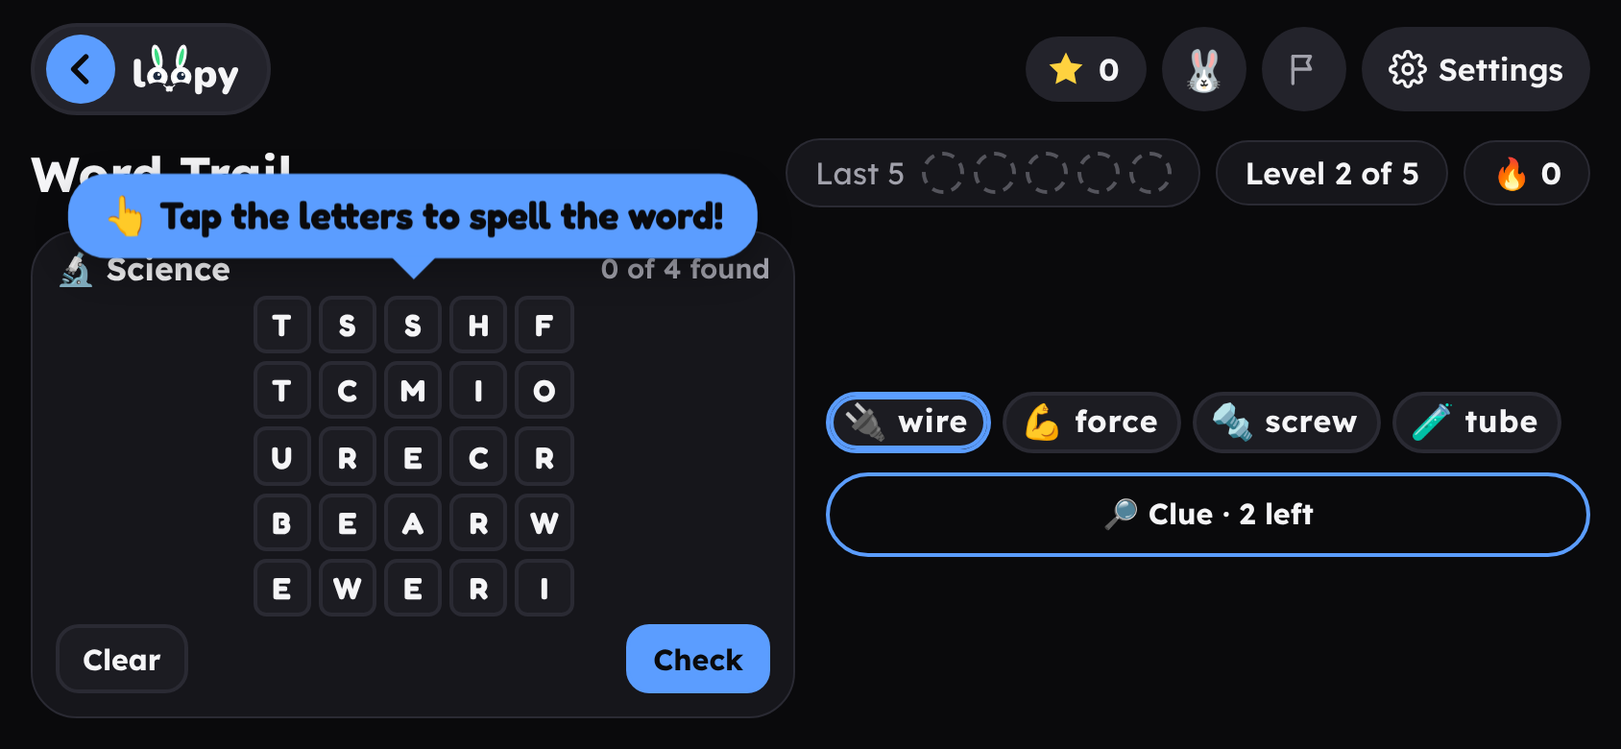
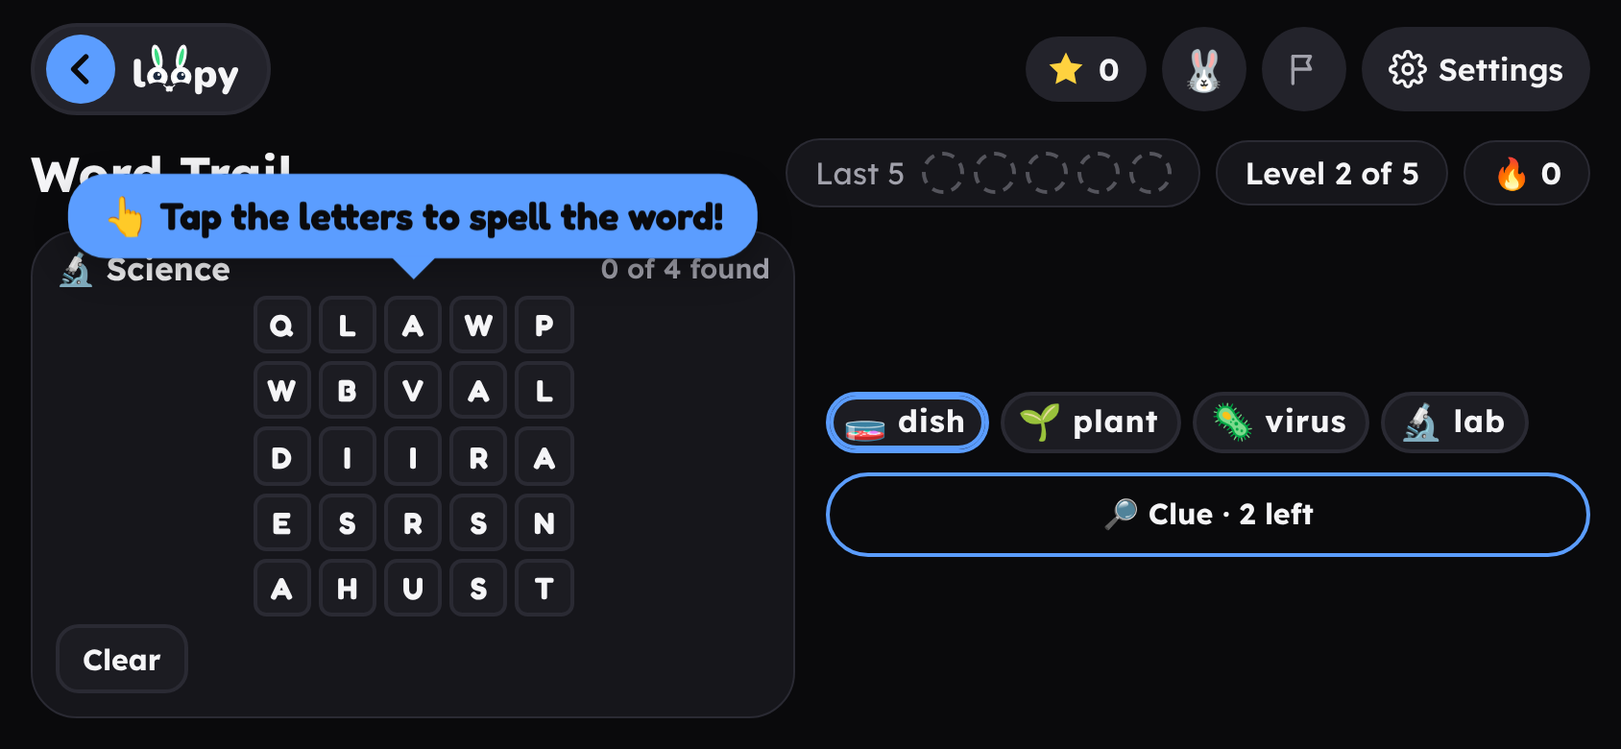
Word Trail: no Check button, the grid takes all the room
The Check button is gone. A right word counts on its last letter, as
before. A wrong trail is a miss by itself as soon as it is as long as
the word being looked for and no word left starts that way. Lifting a
drag, tapping the last box again or Enter still check early.

The grid has no size cap any more. In portrait the card hugs the grid,
the word list sits right under it and Clue stays at the bottom of the
screen (under the list on a tablet). Bigger letters on big grids.

Tests, README, guide (EN + DE), What's new and RELEASES updated.

diff --git a/languages/word-trail/index.html b/languages/word-trail/index.html
@@ -2,7 +2,7 @@
 <html lang="en">
 <head>
 <meta charset="utf-8">
-<meta http-equiv="Content-Security-Policy" content="default-src 'self'; script-src 'self' 'sha256-3/vfuPTWYdPm5rPnxfEDNLvVnI9CecmEN6ldwK3s6Lg='; style-src 'self' 'sha256-z2P7kGW5Z05eCTjTZdYpc0vThTlOE9vmt97pVSvi2I4=' 'sha256-qxqld09sBl9KP7HcyMVqISsx5anYdMyEAaUoAncFj3Q=' 'sha256-RT1053JU5UiKvjrCUFx1rlhdFLMmgtuFJ9T8jnMeawQ=' 'sha256-ninqaUTak7bWrbAUNWFtXnGw8vMhszkAjNZHG+aJ8Ac='; img-src 'self' data:; font-src 'self'; connect-src 'self' https://loopy-sync.loopy-1e2.workers.dev; worker-src 'self'; object-src 'none'; base-uri 'none'; form-action 'none'; manifest-src 'self'; upgrade-insecure-requests">
+<meta http-equiv="Content-Security-Policy" content="default-src 'self'; script-src 'self' 'sha256-lAx0mTM6xN1UceBe24lCt9oUzZXwg/Sj3TcZuJAvhcE='; style-src 'self' 'sha256-z2P7kGW5Z05eCTjTZdYpc0vThTlOE9vmt97pVSvi2I4=' 'sha256-qxqld09sBl9KP7HcyMVqISsx5anYdMyEAaUoAncFj3Q=' 'sha256-RT1053JU5UiKvjrCUFx1rlhdFLMmgtuFJ9T8jnMeawQ=' 'sha256-ObADxb1T3nqBmc1SpGc+Tt0YGZLFv+0JaOUhIwKFlNk='; img-src 'self' data:; font-src 'self'; connect-src 'self' https://loopy-sync.loopy-1e2.workers.dev; worker-src 'self'; object-src 'none'; base-uri 'none'; form-action 'none'; manifest-src 'self'; upgrade-insecure-requests">
 <meta name="referrer" content="strict-origin-when-cross-origin">
 <meta name="viewport" content="width=device-width, initial-scale=1, viewport-fit=cover">
 <style>:root{color-scheme:light;padding-top:env(safe-area-inset-top,0px);padding-bottom:env(safe-area-inset-bottom,0px)}body{margin:0}[hidden]{display:none!important}</style>
@@ -105,7 +105,7 @@ body { min-height: 100vh; min-height: 100dvh; padding-block: 12px 16px; }
   .play { display: grid; grid-template-columns: 1fr 1fr; gap: 16px; align-items: center; }
 }
 
-.problem-card { padding: 12px 14px 12px; gap: 8px; }
+.problem-card { padding: 10px 12px; gap: 6px; }
 .feedback { min-height: 0; font-size: 1.05rem; }
 .feedback strong { font-size: 1.3rem; }
 
@@ -119,6 +119,18 @@ body { min-height: 100vh; min-height: 100dvh; padding-block: 12px 16px; }
   .problem-card { flex: 1 1 auto; min-height: 0; justify-content: center; overflow: hidden; }
   .gridbox { flex: 1 1 auto; }
   body:not(:has(#settings-panel:not([hidden]))) .gridbox { container-type: size; }
+  /* The card hugs the grid when the grid is as wide as the card: the word list sits right under it,
+     Clue and Next stay at the bottom, and the spare room is between them, not inside the card. */
+  .play { container-type: inline-size; }
+  .problem-card { flex-grow: 999; max-height: calc(100cqw + 104px); }
+  .problem-card:has(#result:not([hidden])) { max-height: calc(100cqw + 170px); }
+  .feedback { min-height: 1.5em; }
+  .side { flex: 1 1 auto; min-height: 0; display: flex; flex-direction: column; justify-content: space-between; gap: 10px; }
+  .side .words { flex: 0 0 auto; }
+}
+/* Tablets upright: Clue sits under the word list instead of far down the page. */
+@media (orientation: portrait) and (min-width: 600px) {
+  .side { justify-content: flex-start; gap: 14px; }
 }
 @media (orientation: landscape) and (min-width: 640px) {
   body { height: calc(100dvh - env(safe-area-inset-top, 0px) - env(safe-area-inset-bottom, 0px)); min-height: 0; display: flex; flex-direction: column; overflow: hidden; }
@@ -136,16 +148,16 @@ body { min-height: 100vh; min-height: 100dvh; padding-block: 12px 16px; }
 .topic { font-weight: 700; font-size: 1.05rem; min-width: 0; overflow: hidden; text-overflow: ellipsis; white-space: nowrap; }
 .found { color: var(--muted); font-weight: 600; font-size: 0.9rem; white-space: nowrap; }
 .gridbox { width: 100%; display: flex; justify-content: center; align-items: center; min-height: 0; }
-.gridwrap { position: relative; width: min(100%, 400px, 38dvh); width: min(100%, 520px, 100cqh); container-type: inline-size; }
+.gridwrap { position: relative; width: min(100%, 400px, 38dvh); width: min(100%, 100cqh); container-type: inline-size; }
 .grid { display: grid; grid-template-columns: repeat(var(--n, 5), 1fr); gap: 5px; touch-action: none; }
 .cell {
   aspect-ratio: 1; min-width: 0; padding: 0; display: grid; place-items: center; cursor: pointer;
   border: 2px solid var(--line); border-radius: 22%; background: var(--key); color: var(--ink);
-  font-family: "Fredoka", var(--font); font-weight: 700; font-size: clamp(1rem, 4.6dvh, 1.7rem); font-size: clamp(1rem, 9cqw, 1.9rem); text-transform: uppercase; line-height: 1;
+  font-family: "Fredoka", var(--font); font-weight: 700; font-size: clamp(1rem, 4.6dvh, 1.7rem); font-size: clamp(1rem, 9cqw, 2.4rem); text-transform: uppercase; line-height: 1;
   -webkit-tap-highlight-color: transparent; -webkit-user-select: none; user-select: none;
 }
-.grid.n4 .cell { font-size: clamp(1rem, 11cqw, 2.2rem); }
-.grid.n6 .cell { font-size: clamp(0.95rem, 4dvh, 1.45rem); font-size: clamp(0.95rem, 7.5cqw, 1.7rem); }
+.grid.n4 .cell { font-size: clamp(1rem, 11cqw, 2.8rem); }
+.grid.n6 .cell { font-size: clamp(0.95rem, 4dvh, 1.45rem); font-size: clamp(0.95rem, 7.5cqw, 2rem); }
 .cell.on { background: var(--accent); border-color: var(--accent); color: var(--on-accent, #fff); transform: scale(1.06); z-index: 1; }
 .cell.w { background: var(--chip); border-width: 3px; }
 .cell.w1 { border-color: var(--c3); } .cell.w2 { border-color: var(--c4); } .cell.w3 { border-color: var(--c2); } .cell.w4 { border-color: var(--c1); } .cell.w5 { border-color: var(--c5); }
@@ -164,7 +176,6 @@ body { min-height: 100vh; min-height: 100dvh; padding-block: 12px 16px; }
   font: inherit; font-weight: 700; font-size: 0.95rem; min-height: 40px; min-width: 44px; padding: 0 12px; border-radius: 12px; cursor: pointer;
   border: 2px solid var(--line); background: var(--key); color: var(--ink); touch-action: manipulation;
 }
-.spell-row .go { background: var(--accent); border-color: var(--accent); color: var(--on-accent, #fff); }
 .result { display: flex; flex-direction: column; align-items: center; gap: 6px; width: 100%; text-align: center; }
 .big { font-family: "Fredoka", var(--font); font-size: 1.6rem; margin: 0; line-height: 1.1; text-align: center; }
 .stars { display: flex; align-items: center; justify-content: center; gap: 6px; font-weight: 700; font-size: 1.1rem; }
@@ -284,7 +295,6 @@ body { min-height: 100vh; min-height: 100dvh; padding-block: 12px 16px; }
       <div class="spell-row" id="spell-row">
         <button type="button" id="k-erase" data-t="wtClear" data-t-aria="wtClearAria">Clear</button>
         <p class="spell" id="spell"></p>
-        <button type="button" class="go" id="k-go" data-t="wtCheck" data-t-aria="wtCheckAria">Check</button>
       </div>
       <div class="result" id="result" hidden></div>
       <p class="feedback" id="feedback" aria-live="polite"></p>
@@ -306,7 +316,7 @@ Loopy.addStrings({
     wtFound: "{n} of {m} found", wtClue: "🔎 Clue", wtLeft: "{n} left", wtNoClues: "No clues left",
     wtShort: "A word needs 3 letters or more.", wtAlready: "You found “{w}” already.", wtNotList: "Not on the list. “{w}” was here.",
     wtGot: "“{w}”! ⭐", wtAllDone: "All {n} words found!", wtSomeDone: "{r} of {n} words found.", wtStars: "+{n} stars",
-    wtNext: "Next grid →", wtGo: "Next word →", wtCheck: "Check", wtCheckAria: "Check the word", wtClear: "Clear", wtClearAria: "Clear the trail",
+    wtNext: "Next grid →", wtGo: "Next word →", wtClear: "Clear", wtClearAria: "Clear the trail",
     wtCell: "{l}, row {r}, box {c}", wtFind: "Find this one", wtLetters: "{n} letters",
     wtRead: "Find these words: {w}.", wtReadHidden: "Topic: {t}. {n} words to find. The next one has {l} letters.",
     wtHow: "Find the words hidden in the grid. Letters that touch make a word. Draw a line through each one.", wtAnsAt: "row {r}, box {c}",
@@ -321,7 +331,7 @@ Loopy.addStrings({
     wtFound: "{n} von {m} gefunden", wtClue: "🔎 Hinweis", wtLeft: "{n} übrig", wtNoClues: "Keine Hinweise mehr",
     wtShort: "Ein Wort braucht mindestens 3 Buchstaben.", wtAlready: "„{w}“ hast du schon gefunden.", wtNotList: "Steht nicht auf der Liste. „{w}“ war hier.",
     wtGot: "„{w}“! ⭐", wtAllDone: "Alle {n} Wörter gefunden!", wtSomeDone: "{r} von {n} Wörtern gefunden.", wtStars: "+{n} Sterne",
-    wtNext: "Nächstes Gitter →", wtGo: "Nächstes Wort →", wtCheck: "Prüfen", wtCheckAria: "Wort prüfen", wtClear: "Löschen", wtClearAria: "Pfad löschen",
+    wtNext: "Nächstes Gitter →", wtGo: "Nächstes Wort →", wtClear: "Löschen", wtClearAria: "Pfad löschen",
     wtCell: "{l}, Zeile {r}, Feld {c}", wtFind: "Dieses Wort suchen", wtLetters: "{n} Buchstaben",
     wtRead: "Finde diese Wörter: {w}.", wtReadHidden: "Thema: {t}. {n} Wörter zu finden. Das nächste hat {l} Buchstaben.",
     wtHow: "Finde die versteckten Wörter im Gitter. Buchstaben, die sich berühren, bilden ein Wort. Zieh eine Linie durch jedes Wort.", wtAnsAt: "Zeile {r}, Feld {c}",
@@ -452,7 +462,7 @@ function makeGrid(lang, lv, topic, avoid, must) {
   const $ = (id) => document.getElementById(id);
   const card = $("card"), topicEl = $("topic"), foundEl = $("found"), gridEl = $("grid"), wrapEl = $("letters"), trailEl = $("trail"),
     spellEl = $("spell"), resultEl = $("result"), feedbackEl = $("feedback"), wordsEl = $("wordlist"),
-    moreBtn = $("more"), nextBtn = $("next"), goBtn = $("k-go"), eraseBtn = $("k-erase"), topicSeg = $("topic-seg");
+    moreBtn = $("more"), nextBtn = $("next"), eraseBtn = $("k-erase"), topicSeg = $("topic-seg");
   const wordsBtns = [...document.querySelectorAll("#words-seg button")];
   const levelBtns = [...document.querySelectorAll("#level-seg button")];
   const t = Loopy.t;
@@ -624,12 +634,15 @@ function makeGrid(lang, lv, topic, avoid, must) {
     const b = el && el.closest ? el.closest("#grid .cell") : null;
     return b ? +b.dataset.i : -1;
   }
-  // Add a box to the trail. When the letters now spell a word on the list, it is found straight away.
+  // Add a box to the trail. When the letters now spell a word on the list, it is found straight away. When the
+  // trail is as long as the word being looked for and no word left starts this way, it is a miss straight away.
+  // Returns true when the trail is over, found or missed.
   function add(i) {
     trail.push(i);
     const s = trail.map(k => grid.cells[k]).join("");
     const hit = grid.words.find(w => !w.done && lower(w.e.word) === s);
     if (hit) { success(hit, trail.slice()); return true; }
+    if (trail.length >= target.e.letters.length && !remaining().some(w => lower(w.e.word).startsWith(s))) { miss(s); return true; }
     render();
     return false;
   }
@@ -687,10 +700,10 @@ function makeGrid(lang, lv, topic, avoid, must) {
   function clear() { trail = []; render(); }
   // A note on the feedback line. Cleared first, so a screen reader also reads it when it is the same note again.
   function say(text) { feedbackEl.textContent = ""; requestAnimationFrame(() => { feedbackEl.textContent = text; }); }
-  // Check or Erase came from the keyboard: focus goes back to the letters, so the child can carry on.
+  // Clear came from the keyboard: focus goes back to the letters, so the child can carry on.
   function backToLetters() {
     const a = document.activeElement;
-    if (!a || !/^k-(go|erase)$/.test(a.id)) return;
+    if (!a || a.id !== "k-erase") return;
     const c = gridEl.querySelector('.cell[tabindex="0"]') || gridEl.firstElementChild;
     if (c) c.focus({ preventScroll: true });
   }
@@ -766,7 +779,6 @@ function makeGrid(lang, lv, topic, avoid, must) {
 
   nextBtn.addEventListener("click", next);
   moreBtn.addEventListener("click", clue);
-  goBtn.addEventListener("click", check);
   eraseBtn.addEventListener("click", () => { if (trail.length) { trail.pop(); render(); } });
   wordsBtns.forEach(b => b.addEventListener("click", () => { wordsLang = b.dataset.words; store.set("wt.words", wordsLang); recent = []; grid = null; newQuestion(); }));
   levelBtns.forEach(b => b.addEventListener("click", () => { level = +b.dataset.level; store.set("wt.level.a" + age, level); recent = []; grid = null; newQuestion(); }));
@@ -785,7 +797,7 @@ function makeGrid(lang, lv, topic, avoid, must) {
       return;
     }
     if (e.key === "Enter") {
-      // Buttons act on their own (Check, Next, Clue, Settings, a box); Enter elsewhere checks the trail or goes on.
+      // Buttons act on their own (Next, Clue, Clear, Settings, a box); Enter elsewhere checks the trail or goes on.
       if (b || e.target.closest("#settings-panel")) return;
       answered ? next() : check();
       e.preventDefault();

diff --git a/sw.js b/sw.js
@@ -1,5 +1,5 @@
 /* loopy: built from src/sw.js by tools/build.py. Do not edit this file, edit the source. */
-var VERSION="7247666fbd2a63a2",FILES={"apple-touch-icon.png":"826eeeca90","fonts/atkinson-latin.woff2":"71c3e56f88","fonts/fredoka-latin-ext.woff2":"18a1723c87","fonts/fredoka-latin.woff2":"3facd28352","fonts/lexend-latin-ext.woff2":"b5d815d420","fonts/lexend-latin.woff2":"35a62e43ae","geography/flags-capitals/data.js":"b641089a33","geography/flags-capitals/":"64315fdff4","geography/where-is-it/data.js":"c8e0bf4f86","geography/where-is-it/":"b552768a16","help/":"822b6f2a39","icon-192.png":"571274d70c","icon-512.png":"dfd4ed3adf","icon-maskable-512.png":"981dcb84db","icon.svg":"3d1a9ed7fd","./":"57e5a7592d","languages/sentence-builder/":"a2606c7ae1","languages/sentence-builder/words.js":"15d02d630a","languages/sound-spell/":"0c2fde4438","languages/sound-spell/words.js":"100ac92ec5","languages/spell-it/":"001e0c3374","languages/spell-it/words.js":"72e87eaa4f","languages/spelling-quiz/":"b497a43315","languages/spelling-quiz/words.js":"9c90832137","languages/word-detective/":"a369dd7558","languages/word-detective/words.js":"62c5968b01","languages/word-match/":"ad5e3099c4","languages/word-trail/":"d5d018e3df","languages/words.js":"ad5f903a46","logo-white.svg":"f6a28d2294","logo.svg":"33f3453587","loopy-backup.js":"f92623ab2d","loopy-install.js":"3c3d79f3e7","loopy-levels.js":"814852b75c","loopy-report.js":"c374c981fa","loopy-sheet.js":"8866d2feb4","loopy-sync.js":"0866d61ab8","loopy.css":"de8276730d","loopy.js":"62f6b0d7c0","manifest.webmanifest":"32d1e2daa8","math/bigger-or-smaller/":"4e67dce547","math/box-multiply/":"cc580bc685","math/coins-change/":"535f5fc48f","math/equation-balance/":"c3315b3c55","math/graphs-data/":"ed5f74ef5d","math/make-10/":"e59ed6180e","math/percent-ratio/":"028a94dda4","math/pizza-fractions/":"1d479f211d","math/plus-minus/":"3cb953f5b6","math/plus-minus-100/":"b149fbb898","math/shapes-angles/":"67dbb0a627","math/step-by-step/":"ee65b66a50","math/times-share/":"c27b0e114f","math/times-sprint/":"ed564f3796","math/what-time-is-it/":"c6b02b8edd","mix/daily-mix/":"f9b732ca31","print.css":"619925ee48","privacy/":"a461f641db","progress/":"f1c7bea29f","science/quick-facts/data.js":"8196c98b79","science/quick-facts/":"753f191d5e","science/sort-it/data.js":"9abc4f3e8a","science/sort-it/":"d7f77a0a37"};
+var VERSION="8db463a32160b3ad",FILES={"apple-touch-icon.png":"826eeeca90","fonts/atkinson-latin.woff2":"71c3e56f88","fonts/fredoka-latin-ext.woff2":"18a1723c87","fonts/fredoka-latin.woff2":"3facd28352","fonts/lexend-latin-ext.woff2":"b5d815d420","fonts/lexend-latin.woff2":"35a62e43ae","geography/flags-capitals/data.js":"b641089a33","geography/flags-capitals/":"64315fdff4","geography/where-is-it/data.js":"c8e0bf4f86","geography/where-is-it/":"b552768a16","help/":"822b6f2a39","icon-192.png":"571274d70c","icon-512.png":"dfd4ed3adf","icon-maskable-512.png":"981dcb84db","icon.svg":"3d1a9ed7fd","./":"57e5a7592d","languages/sentence-builder/":"a2606c7ae1","languages/sentence-builder/words.js":"15d02d630a","languages/sound-spell/":"0c2fde4438","languages/sound-spell/words.js":"100ac92ec5","languages/spell-it/":"001e0c3374","languages/spell-it/words.js":"72e87eaa4f","languages/spelling-quiz/":"b497a43315","languages/spelling-quiz/words.js":"9c90832137","languages/word-detective/":"a369dd7558","languages/word-detective/words.js":"62c5968b01","languages/word-match/":"ad5e3099c4","languages/word-trail/":"6421d50bd5","languages/words.js":"ad5f903a46","logo-white.svg":"f6a28d2294","logo.svg":"33f3453587","loopy-backup.js":"f92623ab2d","loopy-install.js":"3c3d79f3e7","loopy-levels.js":"814852b75c","loopy-report.js":"c374c981fa","loopy-sheet.js":"8866d2feb4","loopy-sync.js":"0866d61ab8","loopy.css":"de8276730d","loopy.js":"62f6b0d7c0","manifest.webmanifest":"32d1e2daa8","math/bigger-or-smaller/":"4e67dce547","math/box-multiply/":"cc580bc685","math/coins-change/":"535f5fc48f","math/equation-balance/":"c3315b3c55","math/graphs-data/":"ed5f74ef5d","math/make-10/":"e59ed6180e","math/percent-ratio/":"028a94dda4","math/pizza-fractions/":"1d479f211d","math/plus-minus/":"3cb953f5b6","math/plus-minus-100/":"b149fbb898","math/shapes-angles/":"67dbb0a627","math/step-by-step/":"ee65b66a50","math/times-share/":"c27b0e114f","math/times-sprint/":"ed564f3796","math/what-time-is-it/":"c6b02b8edd","mix/daily-mix/":"f9b732ca31","print.css":"619925ee48","privacy/":"a461f641db","progress/":"f1c7bea29f","science/quick-facts/data.js":"8196c98b79","science/quick-facts/":"753f191d5e","science/sort-it/data.js":"9abc4f3e8a","science/sort-it/":"d7f77a0a37"};
 var CACHE="loopy-"+VERSION;var LIST=new URL("loopy-files",self.location).href;var SAVED={};Object.keys(FILES).forEach(function(f){SAVED[new URL(f,self.location).href]=FILES[f];});function key(url){var u=new URL(url);u.search="";u.hash="";u.pathname=u.pathname.replace(/\/index\.html$/,"/").replace(/\/([^\/.]+)$/,"/$1/");return u.href;}
 function oldCopy(){return caches.keys().then(function(names){return Promise.all(names.filter(function(n){return n.indexOf("loopy-")===0&&n!==CACHE;}).map(function(n){return caches.open(n).then(function(cache){return cache.match(LIST).then(function(r){return r?r.json():null;}).then(function(list){if(!list||typeof list!=="object")return null;var same=Object.keys(SAVED).filter(function(url){return list[url]===SAVED[url];}).length;return{cache:cache,list:list,same:same};});}).catch(function(){return null;});}));}).then(function(copies){return copies.reduce(function(best,c){return c&&(!best||c.same>best.same)?c:best;},null);}).catch(function(){return null;});}
 function matches(res,want){if(!res||!self.crypto||!crypto.subtle)return Promise.resolve(!!res);return res.clone().arrayBuffer().then(function(buf){return crypto.subtle.digest("SHA-256",buf);}).then(function(d){return Array.prototype.map.call(new Uint8Array(d),function(b){return(b<16?"0":"")+b.toString(16);}).join("").slice(0,10)===want;},function(){return true;});}

diff --git a/RELEASES.md b/RELEASES.md
@@ -4,7 +4,7 @@ The big changes, newest first. Small fixes are not listed.
 
 | Date | What's new | Where | PR |
 | --- | --- | --- | --- |
-| 2026-11-01 | Fix: Word Trail fills its card on a phone. The topic line sits at the top, the letter grid takes the room in between and Clear and Check sit under it, so there are no big empty gaps. The grid grows to the room it has, so the letters are bigger on a phone and a tablet. On a phone held sideways the grid got a little more room too. | Word Trail | #181 |
+| 2026-11-01 | Word Trail: a bigger grid and no Check button. The letter grid now takes all the room its card has. The letters are bigger on a phone and a tablet, and the card has no empty gaps. The word list sits right under the card and Clue stays at the bottom. The Check button is gone. A right word counts on its last letter, as before. A wrong trail shows the word in red by itself, as soon as it is as long as the word you are looking for. Clear and the spelled letters stay under the grid. | Word Trail | #181 |
 | 2026-11-01 | Twice as many words. Every word game now has at least double the words to practise. Word Match has about 270 words instead of 100. Word Trail has about 1,000 instead of 480. Word Detective has 240 per language instead of 120. Spell It has 356 English and 238 German words, Sound Spell 142 and 136. Sentence Builder has 240 sentences per language instead of 120. Spelling Quiz has at least twice as many words in each grade. The games look and play the same, there is just less repeating. | Word Match, Word Trail, Word Detective, Spell It, Sound Spell, Sentence Builder, Spelling Quiz | #176 |
 | 2026-11-01 | Lighter game pages. The words, sentences, facts, flags and map of each game now sit in their own small file next to the game. Word Match and Word Trail share one word bank. Nothing looks or plays differently. The pages themselves are smaller, and when a word list changes, phones download only that small file instead of the whole page. Grown-ups who want to add a word find each file named in the game's README. | All word, fact and map games | #174 |
 | 2026-11-01 | Stay in touch, and a privacy note. Grown-ups who want to hear about new games can leave their email in ⚙ Settings on the home page, above Family sync. Nothing is sent until you tap Save. loopy keeps the email, your language and the time on its own server in the EU. Nothing about the child. Remove deletes it, and after 2 years it is deleted by itself. A new privacy note at the bottom of the home page, in English and German, says what loopy keeps, where and for how long, and how to delete it. The sync server now also counts, once a night, how many families have Family sync on: counts only, no names. | Home page Settings, privacy note, Help | #167 #168 |

diff --git a/languages/word-trail/README.md b/languages/word-trail/README.md
@@ -7,7 +7,7 @@ A word search for kids. The child finds the words hidden in a grid of letters by
 1. Look at the word list under the grid. The word with the blue ring is the one to find now. Any word on the list counts, though.
 2. Tap the letters one after the other, or drag a finger over them. The letters so far show under the grid. Letters that touch make a word, sideways, up and down or diagonally. From level 2 the trail can bend.
 3. The word counts as soon as its last letter is tapped. The trail keeps its colour and the word in the list is crossed out. You earn a star.
-4. Not a word on the list? Tap **Check** (or lift your finger) and the word you were looking for shows in red where it was hidden. No star, and the word comes back later in Try again. Tap **Next word** to go on.
+4. Not a word on the list? The word you were looking for shows in red where it was hidden. That happens as soon as the trail is as long as that word, or when you lift your finger. No star, and the word comes back later in Try again. Tap **Next word** to go on.
 5. Stuck? Tap **🔎 Clue**. The first clue opens the picture and first letter in the list, at the levels that hide them. The next clue makes the word's first box pulse. The last clue shows the whole trail. The word then counts as a miss.
 6. When every word in the grid is found, the card says **All 4 words found!** and shows the stars. Tap **Next grid**.
 
@@ -50,7 +50,7 @@ Open them with the gear button.
 - **Read aloud.** A speaker button on the card reads the words to find. At levels 4 and 5, where the list hides the words, it reads the topic and how many letters the next word has. It is on by itself for ages 7 and under.
 - Age, colors, sound effects and the display language (EN/DE) are shared with the other games.
 - **Print worksheet.** See below.
-- The keyboard works too. Arrows move between the boxes. Space or Enter picks a letter. Enter checks. Backspace takes the last letter off. Escape clears the trail.
+- The keyboard works too. Arrows move between the boxes. Space or Enter picks a letter. Enter checks a trail early. Backspace takes the last letter off. Escape clears the trail.
 
 ## Print a worksheet
 

diff --git a/guide-src/src/content/docs/de/help/whats-new.md b/guide-src/src/content/docs/de/help/whats-new.md
@@ -10,6 +10,7 @@ Die großen Änderungen, die neuesten zuerst. Kleine Korrekturen stehen nicht da
 
 ## 1. November 2026
 
+- **Wortpfad: ein größeres Gitter, kein Prüfen-Knopf.** Das Buchstabengitter nimmt jetzt den ganzen Platz seiner Karte ein. Die Buchstaben sind auf dem Handy und dem Tablet größer. Der Prüfen-Knopf ist weg. Ein richtiges Wort zählt beim letzten Buchstaben, wie bisher. Ein falscher Pfad zeigt das Wort von selbst in Rot, sobald er so lang ist wie das gesuchte Wort. Siehe [Wortpfad](/loopy/guide/de/games/languages/word-trail/).
 - **Doppelt so viele Wörter.** Jedes Wortspiel hat jetzt mindestens doppelt so viele Wörter zum Üben. Bild und Wort hat etwa 270 Wörter und Wortpfad etwa 1.000. Wortdetektiv hat 240 pro Sprache. Wörter schreiben hat 356 englische und 238 deutsche Wörter. Satzbau hat 240 Sätze pro Sprache. Anlaut und Endlaut und das Rechtschreib-Quiz haben auch doppelt so viele. Die Spiele sehen gleich aus und spielen sich gleich, es wiederholt sich nur weniger.
 - **Leichtere Spielseiten.** Die Wörter, Fakten, Flaggen und die Karte jedes Spiels liegen jetzt in einer eigenen kleinen Datei neben dem Spiel. Nichts sieht anders aus oder spielt sich anders, aber eine geänderte Wortliste wird allein geladen, nicht mit der ganzen Seite. Wie man ein Wort ergänzt, steht unter [Fragen und Antworten](/loopy/guide/de/help/faq/).
 - **In Kontakt bleiben, und ein Datenschutzhinweis.** Erwachsene, die von neuen Spielen hören möchten, können in ⚙ Einstellungen auf der Startseite ihre E-Mail hinterlassen. Nichts wird gesendet, bis du auf **Speichern** tippst, und **Löschen** entfernt sie. Ein neuer Datenschutzhinweis unten auf der Startseite sagt in einfachen Worten, was loopy speichert, wo und wie lange. Siehe [Einstellungen auf der Startseite](/loopy/guide/de/settings/home-settings/).

diff --git a/tools/e2e/README.md b/tools/e2e/README.md
@@ -17,7 +17,7 @@ It takes a few minutes, prints a table with one row per game and age, and fails 
 
 ## What it does
 
-It serves the site at `/loopy/`, like GitHub Pages. Then, for every game, as a 5-year-old (English), an 8-year-old (German) and a 16-year-old (English), it answers 30 questions in a row. Today's 10 plays one set of 10. It picks the right answer when the game marks it (the multiple-choice games), otherwise the first answer, then presses Next. Box Multiplication is played in steps: while its card says `data-steps="on"`, the test types the answer the game puts on the box being filled (`data-a`), box by box and then the total. The Try again test does the same to finish or replay a sum. Word Trail is played by tracing: while its card says `data-trail="on"`, the test taps the boxes listed in `data-a` (row-col pairs, boxes carry `data-rc`), then Check. The Try again test taps them backwards to miss on purpose.
+It serves the site at `/loopy/`, like GitHub Pages. Then, for every game, as a 5-year-old (English), an 8-year-old (German) and a 16-year-old (English), it answers 30 questions in a row. Today's 10 plays one set of 10. It picks the right answer when the game marks it (the multiple-choice games), otherwise the first answer, then presses Next. Box Multiplication is played in steps: while its card says `data-steps="on"`, the test types the answer the game puts on the box being filled (`data-a`), box by box and then the total. The Try again test does the same to finish or replay a sum. Word Trail is played by tracing: while its card says `data-trail="on"`, the test taps the boxes listed in `data-a` (row-col pairs, boxes carry `data-rc`); the word counts on its last box. The Try again test taps them backwards to miss on purpose.
 
 It checks:
 

diff --git a/guide-src/src/content/docs/help/whats-new.md b/guide-src/src/content/docs/help/whats-new.md
@@ -10,6 +10,7 @@ The big changes, newest first. Small fixes are not listed. See [the full list on
 
 ## 1 November 2026
 
+- **Word Trail: a bigger grid, no Check button.** The letter grid now takes all the room its card has. The letters are bigger on a phone and on a tablet. The Check button is gone. A right word counts on its last letter, as before. A wrong trail shows the word in red by itself, as soon as it is as long as the word you are looking for. See [Word Trail](/loopy/guide/games/languages/word-trail/).
 - **Twice as many words.** Every word game now has at least double the words to practise. Word Match has about 270 words and Word Trail about 1,000. Word Detective has 240 per language. Spell It has 356 English and 238 German words. Sentence Builder has 240 sentences per language. Sound Spell and Spelling Quiz have twice as many too. The games look and play the same, there is just less repeating.
 - **Lighter game pages.** The words, facts, flags and map of each game now sit in their own small file next to the game. Nothing looks or plays differently, but a changed word list downloads alone, not with the whole page. See [Questions and answers](/loopy/guide/help/faq/) for how to add a word.
 - **Stay in touch, and a privacy note.** Grown-ups who want to hear about new games can leave their email in ⚙ Settings on the home page. Nothing is sent until you tap **Save**, and **Remove** deletes it. A new privacy note at the bottom of the home page says in plain words what loopy keeps, where and for how long. See [Settings on the home page](/loopy/guide/settings/home-settings/).
